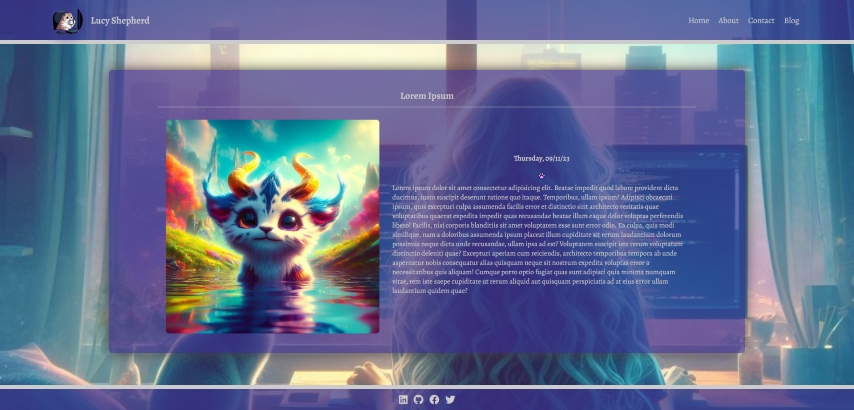
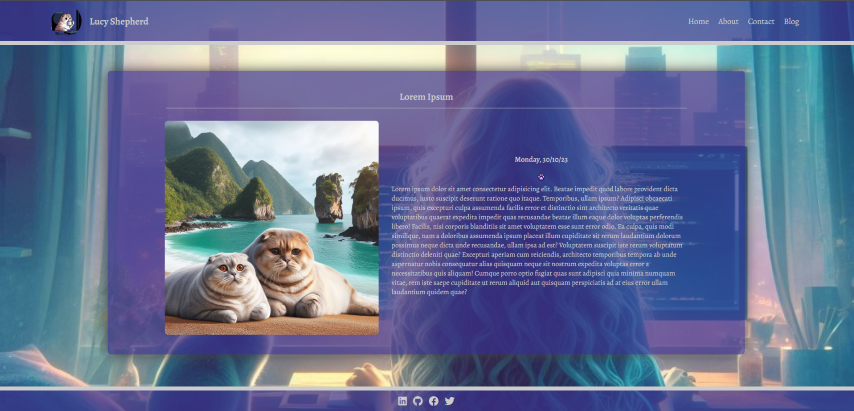
Updated gitignore, modified images

diff --git a/readme.md b/readme.md
@@ -35,6 +35,7 @@ The homepage is the landing page and first thing people see when they visit my w
 
 ![Mobile Screenshot 1](/docs/screenshot-home-mobile1.png)
 ![Mobile Screenshot 2 - Dropdown](/docs/screenshot-home-mobile2.png)
+![Mobile Screenshot 3 - Footer](/docs/screenshot-home-mobile3.png)
 ![Tablet Screenshot](/docs/screenshot-home-tablet.png)
 ![Desktop Screenshot](/docs/screenshot-home-desktop.png)
 
@@ -44,6 +45,7 @@ The about me page is to share my professional work and study history to prospect
 
 - Header and footer with my name, navigation and social media links
 - A clear photo of me to show who I am
+- Pictures of my cats who inspired a lot of the images on my website
 - A link to download my resume styled like a button so it is clearly visible
 - A link to jump to the "Work history" and "education" sections as it is a longer webpage
 - The introductory "About me" is a short profile or overview of my work history
@@ -52,9 +54,15 @@ The about me page is to share my professional work and study history to prospect
 - Return to top link at the bottom for easy navigation
 - Responsive layout - on desktop view the photo and links are fixed in place while scrolling the work/education history.
 
-![Screenshot mobile](/docs/screenshot-about-mobile.png)
-![Screenshot tablet](/docs/screenshot-about-tablet.png)
-![Screenshot desktop](/docs/screenshot-about-desktop.png)
+![Screenshot mobile - Top](/docs/screenshot-about-mobile.png)
+![Screenshot mobile - Middle](/docs/screenshot-about-mobile2.png)
+![Screenshot mobile - Footer](/docs/screenshot-about-mobile3.png)
+![Screenshot tablet - Top](/docs/screenshot-about-tablet.png)
+![Screenshot tablet - Middle](/docs/screenshot-about-tablet1.png)
+![Screenshot tablet - Footer](/docs/screenshot-about-tablet2.png)
+![Screenshot desktop - Top](/docs/screenshot-about-desktop1.png)
+![Screenshot desktop - Middle](/docs/screenshot-about-desktop2.png)
+![Screenshot desktop - Footer](/docs/screenshot-about-desktop3.png)
 
  ### Contact
 
@@ -63,7 +71,8 @@ The contact page is to clearly display different ways I can be contacted.
 - Email, phone and address displayed with cute related images
 - Displayed in a responsive format for phone, tablet and desktop view with flexbox
 
-![Screenshot Mobile](/docs/screenshot-contact-mobile.png)
+![Screenshot Mobile - Top](/docs/screenshot-contact-mobile.png)
+![Screenshot Mobile - Middle with cat images](/docs/screenshot-contact-mobile2.png)
 ![Screenshot Tablet](/docs/screenshot-contact-tablet.png)
 ![Screenshot Desktop](/docs/screenshot-contact-desktop.png)
 
@@ -79,7 +88,9 @@ The blog page is to demonstrate more of my personality with the content and the 
 
 ![Screenshot Mobile 1](/docs/screenshot-blog-mobile1.png)
 ![Screenshot Mobile 2](/docs/screenshot-blog-mobile2.png)
-![Screenshot Tablet 1](/docs/screenshot-blog-tablet1.png)
+![Screenshot Mobile 3](/docs/screenshot-blog-mobile3.png)
+![Screenshot Mobile 4](/docs/screenshot-blog-mobile4.png)
+![Screenshot Tablet 1](/docs/screenshot-blog-tablet.png)
 ![Screenshot Tablet 2](/docs/screenshot-blog-tablet2.png)
 ![Screenshot Desktop 1](/docs/screenshot-blog-desktop1.png)
 ![Screenshot Desktop 2](/docs/screenshot-blog-desktop2.png)
@@ -94,7 +105,9 @@ The blog pages demonstage a different layout and show an image with text, displa
 - I used one style sheet for all of the blog pages so they are all styled in the same way. Images and text would be changed in the html page. This means I can keep an html template to fill out for each new blog page without needing to change the css. This also means if I updated anything in the layout I would only be changing the one style sheet.
 
 ![Screenshot Mobile](/docs/screenshot-blogpage-mobile.png)
+![Screenshot Mobile](/docs/screenshot-blogpage-mobile1.png)
 ![Screenshot Tablet](/docs/screenshot-blogpage-tablet.png)
+![Screenshot Tablet](/docs/screenshot-blogpage-tablet1.png)
 ![Screenshot Desktop](/docs/screenshot-blogpage-desktop.png)
 
 ### Target Audience
